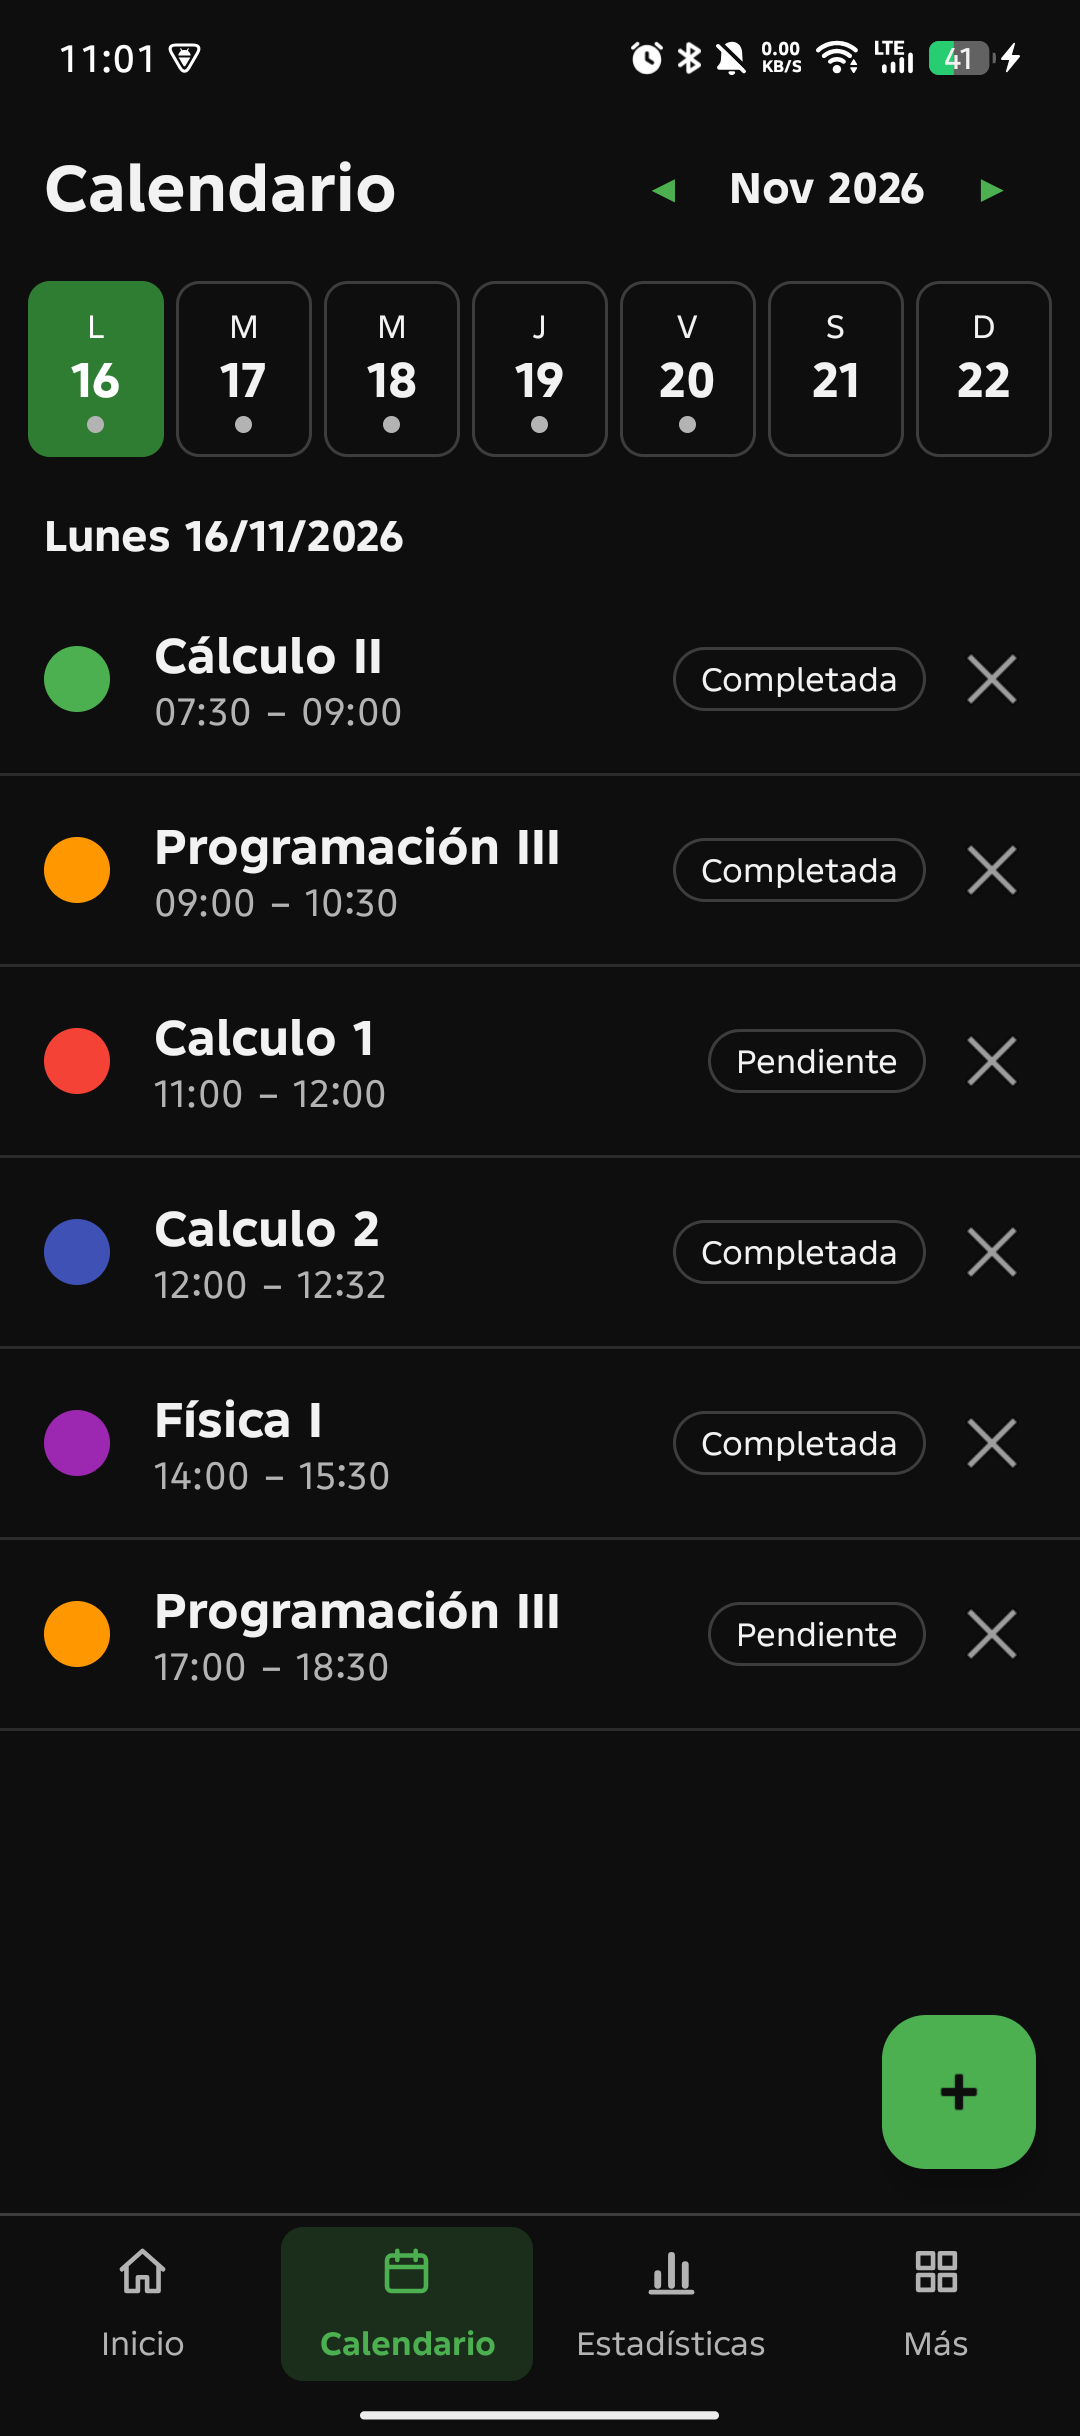
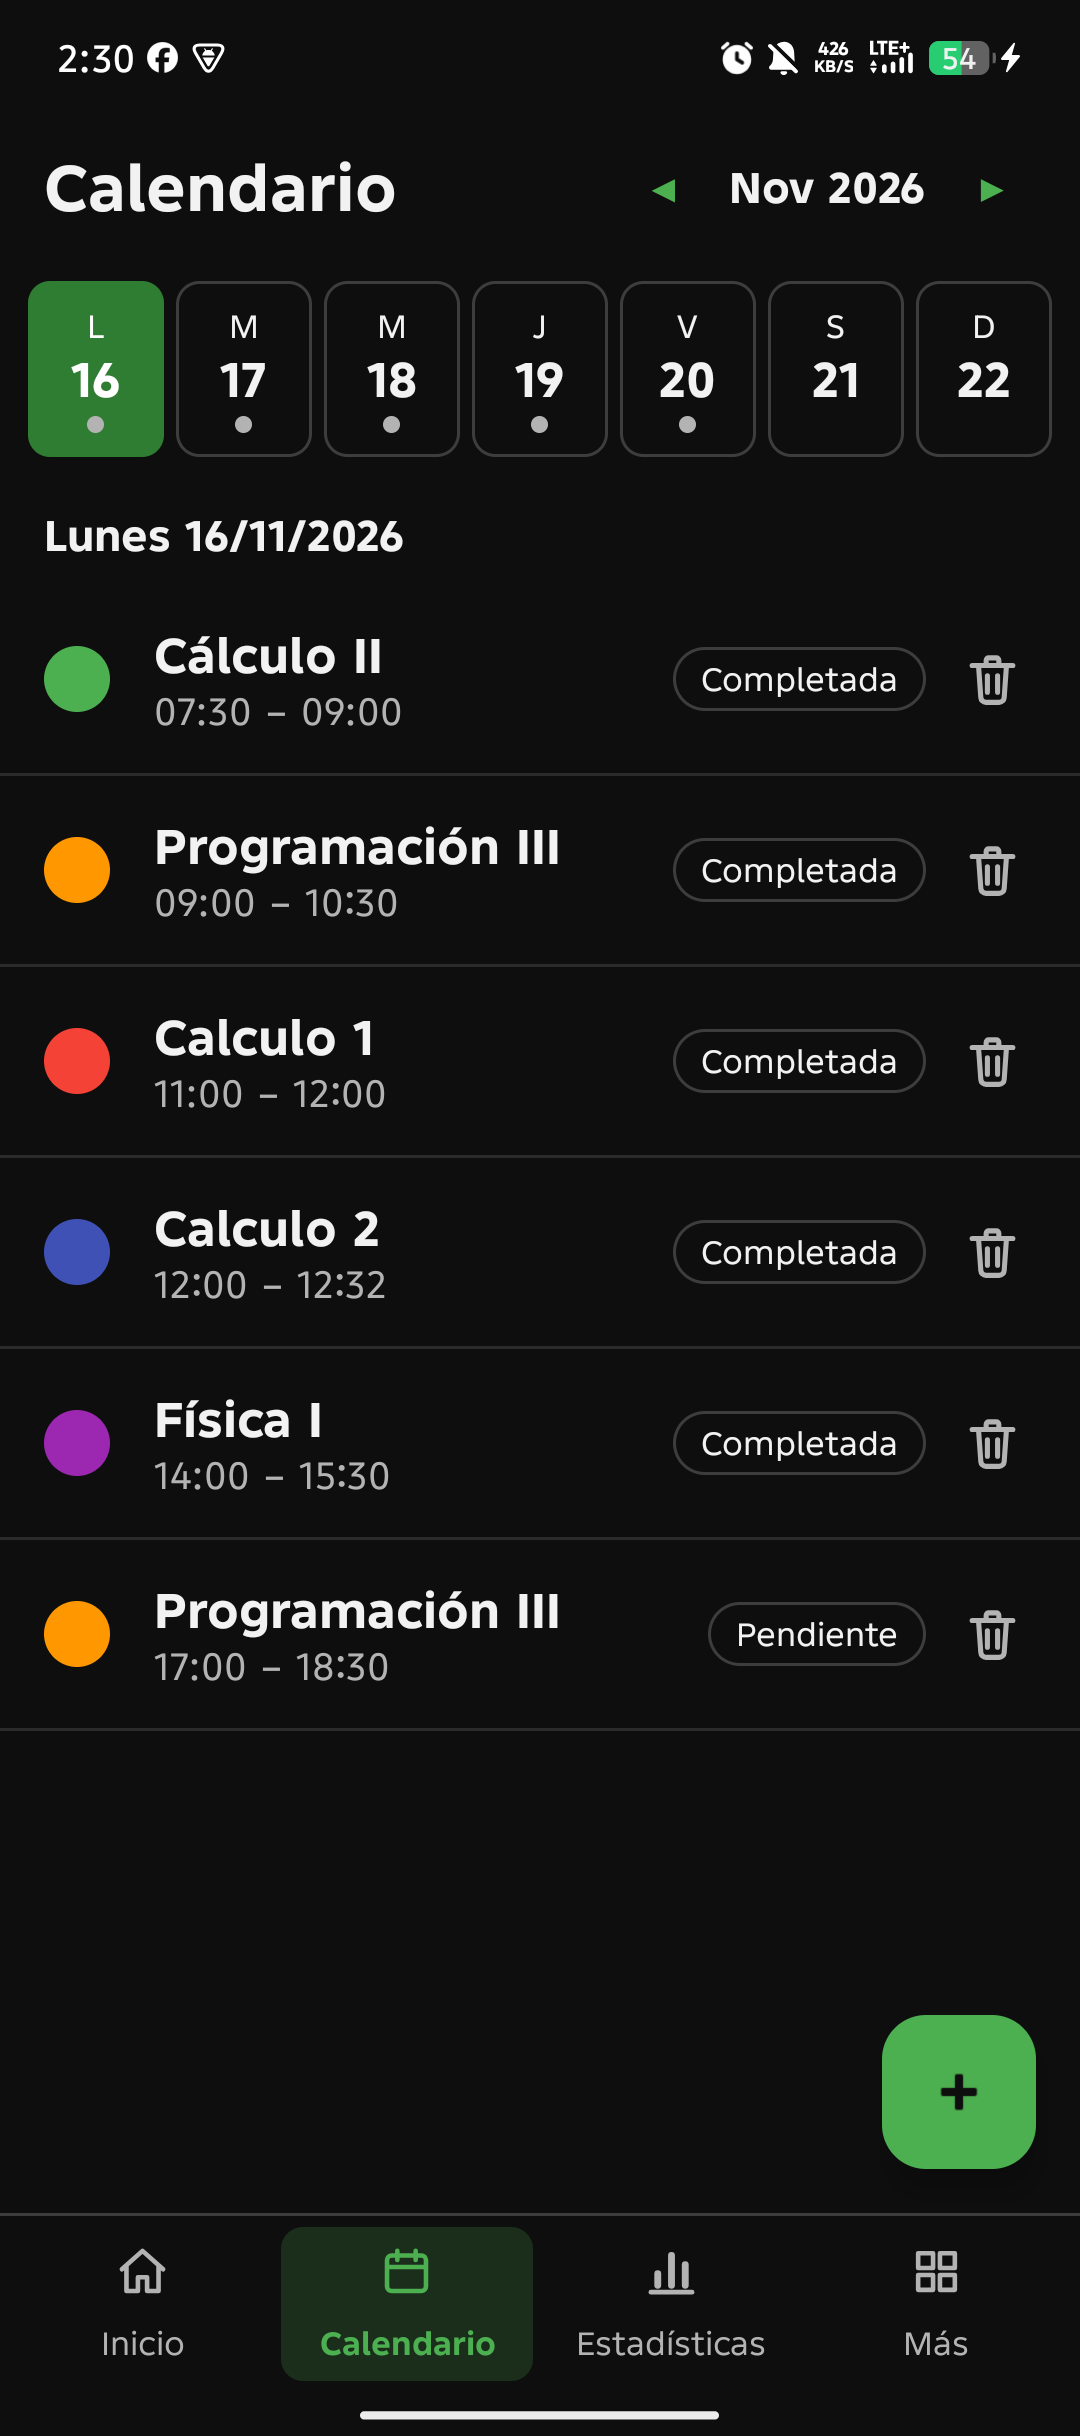
README del proyecto y capturas finales con el diseño actual

diff --git a/docs/bitacora.md b/docs/bitacora.md
@@ -86,3 +86,5 @@
 | 21/11/2026 | Issue #23 (paso 4: cursiva de "Sin docente") | Solo vista. Probado en el teléfono con adb: "Sin docente" salía en gris pero derecho. MateriaAdapter ahora inclina el texto con tvDocente.getPaint().setTextSkewX(-0.25f) (0f cuando hay docente) en lugar de setTypeface(null, Typeface.ITALIC). Compila con assembleDebug. | La app usa la fuente del sistema y la del teléfono no trae versión cursiva: con setTypeface(ITALIC) Android cree que ya es cursiva y no la inclina. -0.25 es el mismo valor que usa Android para la cursiva falsa. |
 | 21/11/2026 | Issue #23 (paso 5: encabezado y lista vacía) | Solo vista. strings.xml: plurals contador_materias y contador_contactos ("%d materia"/"%d materias", con one, many y other) y las pistas pista_lista_materias ("Toca + para agregar la primera") y pista_lista_contactos ("Toca + para agregar el primero"). activity_materias.xml y activity_contactos.xml: el título va en un LinearLayout vertical con tvContador debajo (14sp, @color/texto_secundario); la lista vacía pasa de un TextView a un LinearLayout llVacio centrado con un ImageView de 64dp (ic_libro en Materias, ic_persona en Contactos, android:tint @color/texto_pista), tvVacio (18sp, texto_secundario) y la pista (14sp, texto_pista); setEmptyView(llVacio). MateriasActivity y ContactosActivity: en cargarLista, tvContador con getResources().getQuantityString(plurals, adaptador.getCount(), adaptador.getCount()). En Contactos la pista se oculta cuando la búsqueda no encuentra nada (ahí el mensaje es "No se encontraron contactos"). Los textos de las pruebas no cambiaron. Compila con assembleDebug. | Ninguno. |
 | 21/11/2026 | Issue #23 (flecha y prueba final en el emulador) | Solo vista. activity_materias.xml y activity_contactos.xml: la fila del título usa gravity top y el título tiene minHeight 48dp con gravity center_vertical, así la flecha ← (48dp) queda a la altura del título y el contador debajo, como en el wireframe. Prueba final en el emulador Medium_Phone_API_37.0 (Android 17) con adb (ANDROID_SERIAL=emulator-5554, para no tocar el teléfono) y la app recién instalada: listas vacías con ícono, mensaje, pista y "0 materias"/"0 contactos"; HU-01/HU-02 (Luis Rojas y Ana Pérez guardados, orden A-Z, "2 contactos", "ana" deja solo Ana Pérez con "1 contacto", "zzz" muestra "No se encontraron contactos"); HU-04 ("¿Eliminar a Luis Rojas?", No lo conserva, Sí lo borra con "Contacto eliminado"); HU-05/HU-06 (Física I sin docente ni color con el azul por defecto, Cálculo II con Lic. Méndez y verde, orden por nombre, inicial en el círculo, "Sin docente" en cursiva, "2 materias"); HU-08 ("¿Eliminar Física I? También se borrarán sus sesiones", No la conserva, Sí la borra con "Materia eliminada"). Todo pasó; las casillas de HU-02, HU-04, HU-06 y HU-08 siguen en [x]. Compila con assembleDebug. | adb input text no acepta letras con tilde (NullPointerException): se escribieron con el acento muerto del teclado virtual (input keycombination KEYCODE_ALT_RIGHT KEYCODE_E y luego la vocal). Al arrancar, el emulador mostró "System UI isn't responding" y se esperó con "Wait". |
+| 21/11/2026 | Issue #23 (Done, merge) | Merge --no-ff de feature/issue-23-listas a main ("Merge issue #23: listas de Materias y Contactos", Closes #23): filas como tarjetas, papelera propia, inicial en Contactos y Materias, docente con ícono o "Sin docente", contador con plurals, lista vacía con ícono y pista, y la flecha a la altura del título. main compiló con assembleDebug, se subió a GitHub y se borró la rama en local y en GitHub. | Ninguno. |
+| 21/11/2026 | Documentación (README) | Rama docs/readme. README.md completo (antes decía "Agenda Personal... contactos y eventos"): descripción, materia, UPDS, docente y gestión; funciones por módulo (sin internet, solo cuentan las sesiones Completada); tecnologías; arquitectura en 3 capas con la tabla de paquetes (Datos = modelo y DAO); cómo ejecutarlo; capturas en una tabla de 3 columnas (250 px); enlaces a historias, bitácora, diagramas y EA; línea de autor. Capturas nuevas por adb desde el teléfono, solo navegando: inicio_final.png, panel_mas_final.png y materias_final.png (nuevas) y contactos_final.png, calendario_final.png, estadisticas_final.png y meta_final.png (reemplazadas: diseño actual con papelera y los mismos datos, 6,93 h). Antes se instaló main en el teléfono con installDebug (conserva los datos). Compila con assembleDebug. | El teléfono estaba con la pantalla apagada y la primera captura salió negra y pisó contactos_final.png: se restauró con git checkout y se repitió con la pantalla desbloqueada, revisando antes de cada captura que el teléfono estuviera despierto. |

diff --git a/README.md b/README.md
@@ -1,3 +1,80 @@
-# Agenda Personal
+# Agenda de Estudio
 
-App Android en Java para gestionar contactos y eventos - Aplicaciones Móviles I - UPDS
+App nativa Android en Java para gestionar y controlar las horas de estudio de un estudiante.
+
+**Aplicaciones Móviles I** · Universidad Privada Domingo Savio (UPDS) · Docente: Ing. Daniel Román Terrazas · Gestión 2026
+
+## Funciones
+
+- **Materias:** registrar, ver, editar y eliminar materias con su docente y un color.
+- **Sesiones de estudio:** planificar sesiones por día y hora en un calendario semanal y marcarlas como Pendiente, Completada o Reprogramada. Una sesión de hoy que está ocurriendo se ve "En curso" con una barra de avance, y "Terminar ahora" la cierra a la hora actual.
+- **Meta semanal:** definir cuántas horas estudiar en la semana y ver el progreso en Inicio.
+- **Reporte semanal:** horas planificadas, completadas y porcentaje por materia, con una fila de total.
+- **Estadísticas:** horas de la semana, comparación con la semana anterior y una barra por materia.
+- **Contactos:** compañeros y docentes con nombre, teléfono y correo, con buscador.
+- **Mi perfil:** la app saluda al estudiante por su nombre.
+
+Funciona sin internet y sin inicio de sesión: los datos se guardan solo en el teléfono. Para la meta, el reporte (horas hechas) y las estadísticas solo cuentan las sesiones **"Completada"**.
+
+## Tecnologías y arquitectura
+
+- Java y Android SDK (mínimo API 24, Android 7.0)
+- SQLite con `SQLiteOpenHelper` (base `agenda.db`)
+- `SharedPreferences` (nombre del perfil)
+- AndroidX, AppCompat y Material Components
+
+La app está organizada en 3 capas; cada capa solo habla con la de abajo (Vista → Controlador → Datos → SQLite):
+
+| Capa | Paquetes | Qué hace |
+|---|---|---|
+| Vista | `com.gabriel.agenda.vista` | Pantallas (Activities), adaptadores de las listas y diálogos. Muestran datos y leen lo que escribe el usuario. |
+| Controlador | `com.gabriel.agenda.controlador` | Validan los datos, calculan horas y porcentajes y devuelven mensajes o datos a la vista. |
+| Datos (modelo y DAO) | `com.gabriel.agenda.modelo`<br>`com.gabriel.agenda.datos` | Clases simples (Materia, SesionEstudio, Contacto…) y los DAO, el único lugar con SQL. |
+
+## Cómo ejecutarlo
+
+1. Clonar el repositorio:
+   ```bash
+   git clone https://github.com/gabriel-torrico-1177/agenda-personal.git
+   ```
+2. Abrirlo en Android Studio y esperar a que sincronice Gradle.
+3. Ejecutarlo (▶ Run) en un teléfono o emulador con Android 7.0 o superior.
+
+También se puede compilar desde la terminal:
+
+```bash
+./gradlew assembleDebug      # Windows: gradlew.bat assembleDebug
+```
+
+El APK queda en `app/build/outputs/apk/debug/app-debug.apk`.
+
+## Capturas
+
+<table>
+  <tr>
+    <td align="center"><img src="capturas/inicio_final.png" width="250" alt="Inicio"><br><b>Inicio</b></td>
+    <td align="center"><img src="capturas/calendario_final.png" width="250" alt="Calendario"><br><b>Calendario</b></td>
+    <td align="center"><img src="capturas/estadisticas_final.png" width="250" alt="Estadísticas"><br><b>Estadísticas</b></td>
+  </tr>
+  <tr>
+    <td align="center"><img src="capturas/panel_mas_final.png" width="250" alt="Panel Más"><br><b>Panel Más</b></td>
+    <td align="center"><img src="capturas/materias_final.png" width="250" alt="Materias"><br><b>Materias</b></td>
+    <td align="center"><img src="capturas/contactos_final.png" width="250" alt="Contactos"><br><b>Contactos</b></td>
+  </tr>
+  <tr>
+    <td align="center"><img src="capturas/meta_final.png" width="250" alt="Meta semanal"><br><b>Meta semanal</b></td>
+    <td></td>
+    <td></td>
+  </tr>
+</table>
+
+## Documentación
+
+- [Historias de usuario y pruebas de aceptación](docs/historias-de-usuario.md): 16 historias, todas terminadas.
+- [Bitácora de desarrollo](docs/bitacora.md): qué se hizo en cada paso y qué problemas hubo.
+- [Diagramas](docs/diagramas/): secuencia, dominio, base de datos, clases, arquitectura, prototipo y wireframes.
+- [Diagramas en Enterprise Architect](docs/ea/): modelo `.qea`, scripts y diagramas exportados.
+
+---
+
+Gabriel Torrico · Ingeniería de Sistemas · UPDS · 2026
